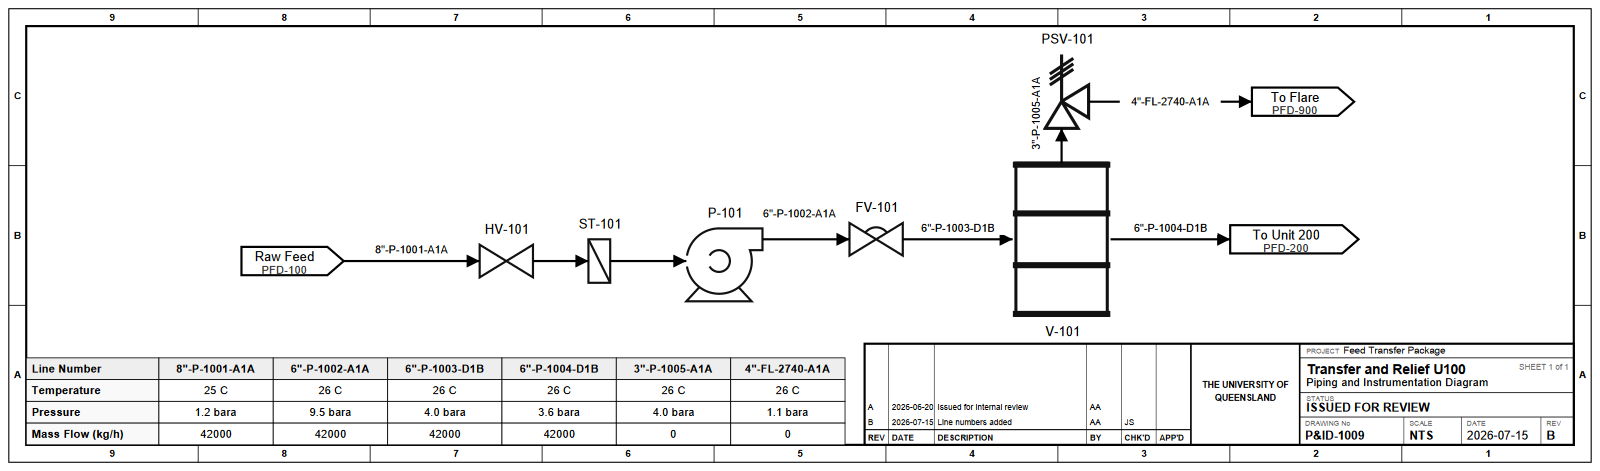
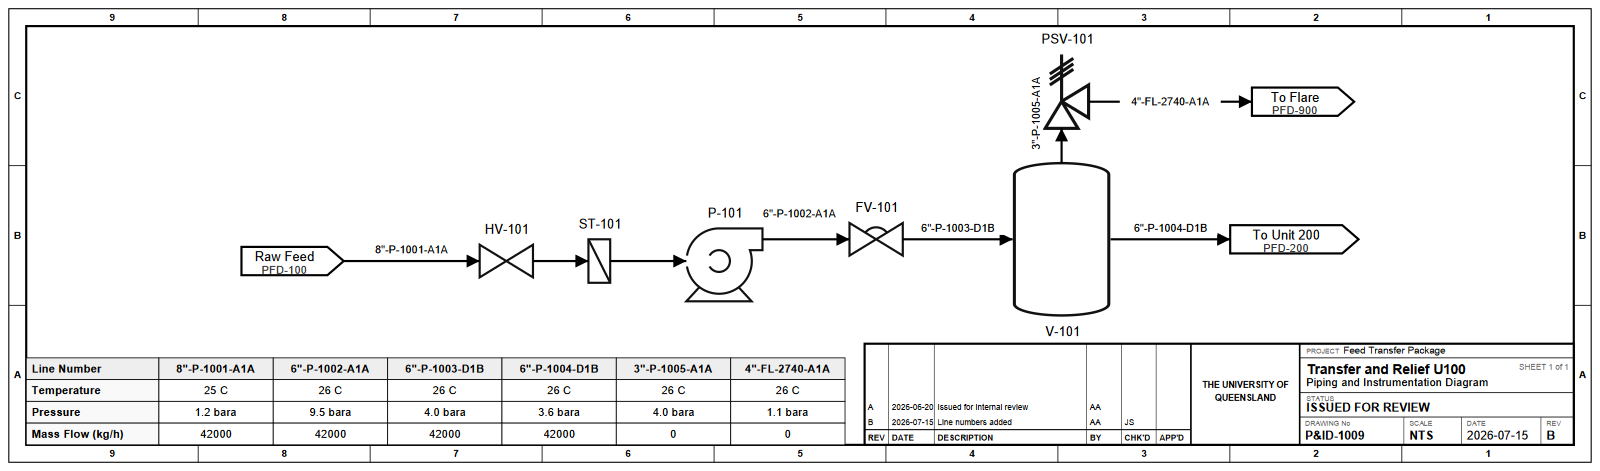
fix(symbols): draw a Vessel as a vessel, not a shipping barrel
("vessel", "default") mapped to the draw.io "Barrel, Drum" stencil: a
44-gallon drum with hoop bands, which is a container rather than process
equipment. It now takes "Pressurized Vessel" from the same stencil file,
the vertical cylinder with dished heads of ISO 10628 / ISA-5.1 and the
shape symbols.py's own hand-drawn fallback has always described.

That stencil is also the column, so SCALE reproportions this one: 0.62 x
0.5 gives a 62 x 100 box at 1:1.6 against the column's 1:2 at 100 x 200,
so a sheet carrying both reads as a short drum beside a tall tower rather
than one shape drawn at two sizes. 62 x 100 is also the box the barrel
occupied, to the unit, so every nozzle keeps the height the pinned sheets
were drawn to.

Ports are the barrel's, and vessel/dished's, unchanged: inlet and outlet
on opposite shell walls at mid-height, vent on the crown of the top head.
All three land exactly on drawn ink, and nothing is added to
_KNOWN_GEOMETRY_GAPS.

A SCALE key may now name a (kind, variant) and carry an (sx, sy) pair, for
a symbol that has to be reproportioned rather than merely resized. Every
other symbol regenerates byte-identical.

Goldens: 04_control_loop, 07_metering_skid and 09_line_numbers each move by
exactly one line, the sym_vessel definition; nothing else on those sheets
moves. 06_column_reflux draws vessel/horizontal and is untouched. The three
gallery sheets are regenerated from the examples to match.

Changed region(s): [[0.625, 0.327, 0.7188, 0.6837]]

diff --git a/scripts/vendor_symbols.py b/scripts/vendor_symbols.py
@@ -158,8 +158,27 @@ KIND_MAP = {
                             {"cold_in": "W", "cold_out": "E",
                              "hot_in": "N", "hot_out": "S"}),
     # Vessels / columns / reactors / separators / tanks.
-    ("vessel", "default"): ("vessels", "Barrel, Drum",
-                            {"inlet": "W", "outlet": "E", "vent": ("N", 31.0)}),
+    #
+    # The generic ISO 10628 vessel: a vertical cylinder with dished heads, the
+    # same stencil the column is drawn from. "Barrel, Drum" is a 44-gallon
+    # shipping barrel — hoop bands and all — which is a container rather than a
+    # piece of process equipment.
+    #
+    # Sharing the stencil with the column is why SCALE reproportions this one:
+    # a tower is slender because it is full of trays, and a drum drawn to the
+    # same proportions reads as a small tower on a sheet carrying both. See
+    # SCALE for the box it comes out at.
+    #
+    # Ports are the barrel's, and the dished variant's: in one shell wall and
+    # out the other at mid-height, with the vapour connection on the crown of
+    # the top head at (50, 0). Switching a vessel between variants is a change
+    # of artwork, not of piping, so the two must offer the same nozzles in the
+    # same places. Both process nozzles are at mid-height, which is on the
+    # straight shell (it spans y 15..185) at any box the unit is drawn at,
+    # rather than on a head, where the ink curves away from the box edge.
+    ("vessel", "default"): ("vessels", "Pressurized Vessel",
+                            {"inlet": ("W", 100.0), "outlet": ("E", 100.0),
+                             "vent": ("N", 50.0)}),
     # Feed enters on the left; the returns come back on the RIGHT, which is the
     # side the overhead and reboiler systems are drawn on. reflux_in sits high
     # and boilup_in low on the straight shell wall (which spans y 15..185), with
@@ -347,8 +366,37 @@ KIND_MAP = {
 
 
 # draw.io draws inline devices oversized; scale them to read as small devices
-# (lines stay 2px thanks to non-scaling-stroke).
-SCALE = {"valve": 0.5, "fitting": 0.5, "vent": 0.5, "funnel": 0.5}
+# (the converter is handed a matching heavier stroke, so the line still lands at
+# 2px once the transform has been applied).
+#
+# A key is a kind, or one (kind, variant) where a single variant is drawn at a
+# different size from the rest of its class. A value is one factor, or a pair
+# (sx, sy) for the one case where a symbol has to be *reproportioned* rather
+# than merely resized: the vessel and the column are the same stencil, and the
+# vessel is the short one. That stroke compensation is taken from sx, so the
+# shell walls — the long strokes, and the ones a reader takes the line weight
+# from — are the pair that lands exactly on 2px.
+SCALE = {"valve": 0.5, "fitting": 0.5, "vent": 0.5, "funnel": 0.5,
+         # 62 x 100, at 1:1.6 against the column's 1:2 — a drum is short because
+         # it holds inventory, a tower is slender because it holds trays, and
+         # two shapes cut to the same proportions read as one piece of equipment
+         # drawn at two sizes. It lands in the same family as vessel/dished
+         # (60 x 95), the knock-out drum (51 x 95) and the reactor (50 x 96).
+         #
+         # It is also the box the barrel occupied, to the unit: the nozzles keep
+         # the heights every pinned sheet was drawn to, so this changes what a
+         # vessel looks like without moving a single run.
+         ("vessel", "default"): (0.62, 0.5)}
+
+
+def scale_for(kind, variant):
+    """The (sx, sy) a symbol's artwork is drawn at, from :data:`SCALE`.
+
+    A (kind, variant) entry beats the kind's own, so one variant can be resized
+    without dragging its siblings with it.
+    """
+    s = SCALE.get((kind, variant), SCALE.get(kind, 1.0))
+    return (float(s), float(s)) if isinstance(s, (int, float)) else (float(s[0]), float(s[1]))
 
 
 def is_series(spec):
@@ -407,10 +455,10 @@ def build():
         el = index.get((stencil, shape))
         if el is None:
             raise SystemExit(f"shape {shape!r} not in {stencil}.xml")
-        s = SCALE.get(kind, 1.0)
+        sx, sy = scale_for(kind, variant)
         # Emit a heavier stroke on scaled symbols so it renders at 2px after the
         # scale transform (2px matches streams + hand-drawn symbols exactly).
-        inner, w, h, constraints = convert_shape(el, stroke_width=round(2.0 / s, 3))
+        inner, w, h, constraints = convert_shape(el, stroke_width=round(2.0 / sx, 3))
         # A port spec may be a LIST: the first entry is the default placement and
         # the rest are alternate faces the user can move that port to, keyed by
         # the edge each one names.
@@ -429,12 +477,16 @@ def build():
                         f'edge spec like ("N", 30.0), got {extra!r}')
                 alts.setdefault(p, {})[extra[0]] = resolve_port(extra, constraints, w, h)
 
-        if s != 1.0:
-            inner = f'<g transform="scale({s})">{inner}</g>'
-            w, h = w * s, h * s
-            ports = {p: (x * s, y * s) for p, (x, y) in ports.items()}
-            alts = {p: {f: (x * s, y * s) for f, (x, y) in d.items()} for p, d in alts.items()}
-            series = {p: (e, at * s, pitch * s, ext) for p, (e, at, pitch, ext) in series.items()}
+        if (sx, sy) != (1.0, 1.0):
+            factors = f"{sx}" if sx == sy else f"{sx}, {sy}"
+            inner = f'<g transform="scale({factors})">{inner}</g>'
+            w, h = w * sx, h * sy
+            ports = {p: (x * sx, y * sy) for p, (x, y) in ports.items()}
+            alts = {p: {f: (x * sx, y * sy) for f, (x, y) in d.items()} for p, d in alts.items()}
+            # A series runs along one face, so it is the along-axis that scales it.
+            series = {p: (e, at * (sy if e in ("W", "E") else sx),
+                          pitch * (sy if e in ("W", "E") else sx), ext)
+                      for p, (e, at, pitch, ext) in series.items()}
         w, h = round(w, 1), round(h, 1)
         ports = {p: tuple(round(v, 1) for v in xy) for p, xy in ports.items()}
         alts = {p: {f: tuple(round(v, 1) for v in xy) for f, xy in d.items()}

diff --git a/pfd/render/_vendored_symbols.py b/pfd/render/_vendored_symbols.py
@@ -238,9 +238,9 @@ def register_vendored(registry):
         ports={'cold_in': (0.0, 50.0), 'cold_out': (100.0, 50.0), 'hot_in': (50.0, 0.0), 'hot_out': (50.0, 100.0)},
     ), 'spiral')
 
-    # draw.io vessels:Barrel, Drum -> vessel/default
+    # draw.io vessels:Pressurized Vessel -> vessel/default
     registry.register('vessel', Symbol(
-        svg='<g id="sym_vessel"><rect x="1.0" y="0.0" width="60.0" height="100.0" fill="none" stroke="#111" stroke-width="2.0"/><rect x="0.0" y="0.0" width="62.0" height="2.0" fill="none" stroke="#111" stroke-width="2.0"/><rect x="0.0" y="32.0" width="62.0" height="2.0" fill="none" stroke="#111" stroke-width="2.0"/><rect x="0.0" y="66.0" width="62.0" height="2.0" fill="none" stroke="#111" stroke-width="2.0"/><rect x="0.0" y="98.0" width="62.0" height="2.0" fill="none" stroke="#111" stroke-width="2.0"/></g>',
+        svg='<g id="sym_vessel"><g transform="scale(0.62, 0.5)"><path d="M 0.0 15.0 A 50.0 15.0 0.0 0 1 50.0 0.0 A 50.0 15.0 0.0 0 1 100.0 15.0 L 100.0 185.0 A 50.0 15.0 0.0 0 1 50.0 200.0 A 50.0 15.0 0.0 0 1 0.0 185.0 Z" fill="none" stroke="#111" stroke-width="3.226"/></g></g>',
         width=62.0, height=100.0,
         ports={'inlet': (0.0, 50.0), 'outlet': (62.0, 50.0), 'vent': (31.0, 0.0)},
     ), 'default')
